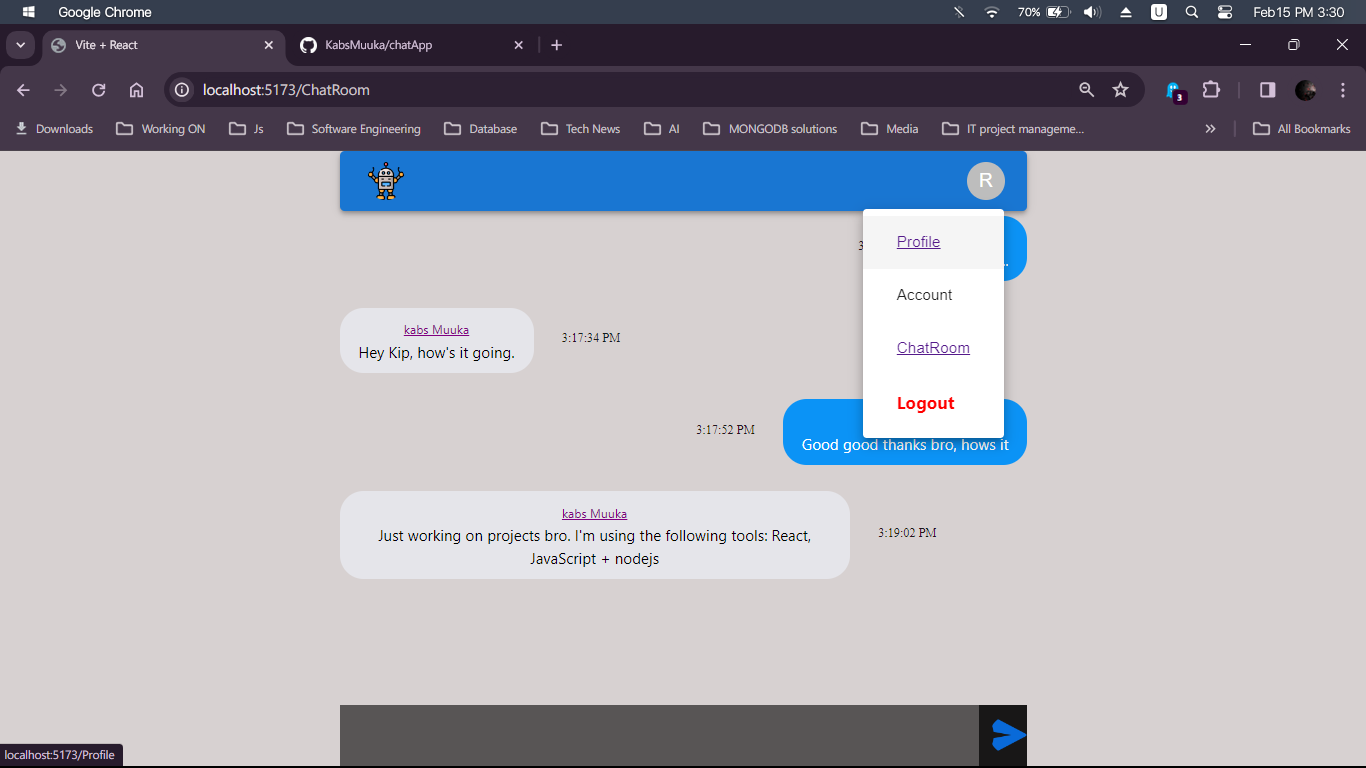
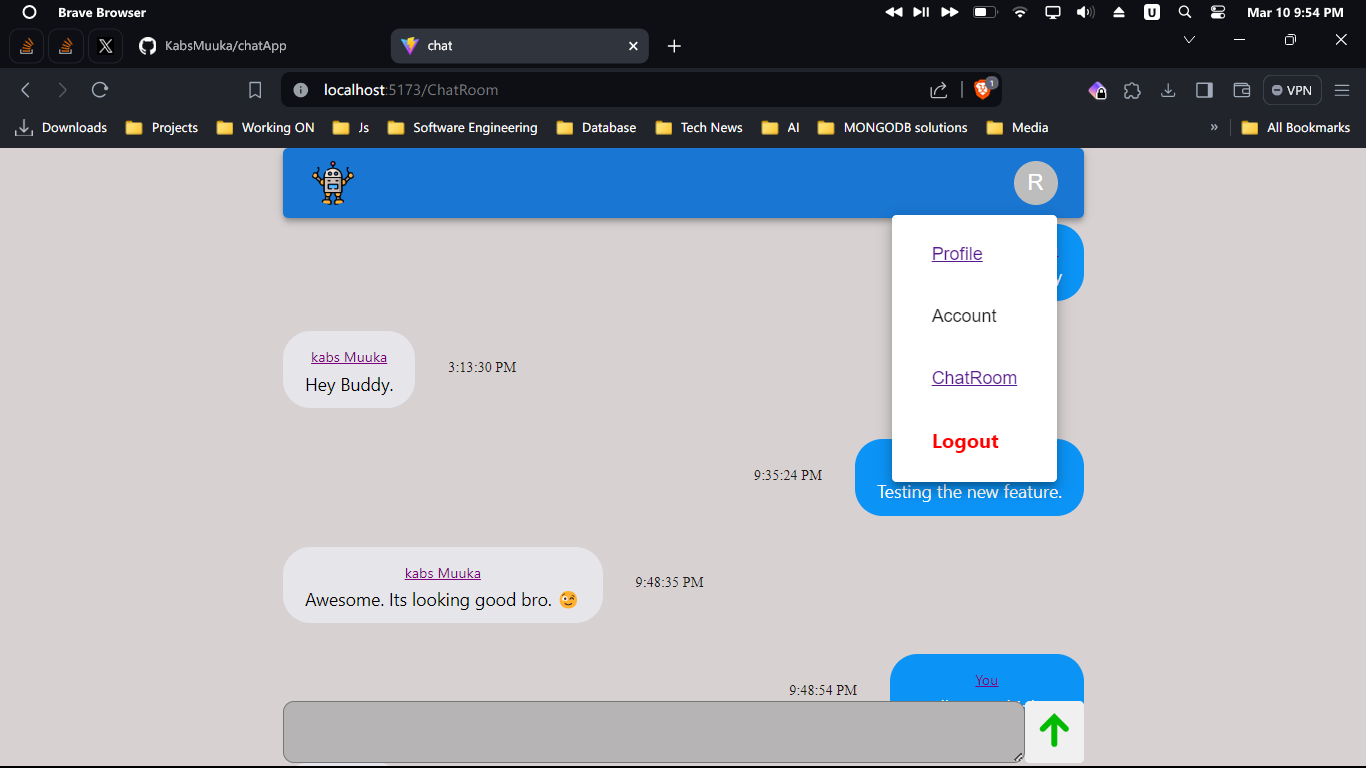
redesigned the input box (textare)

diff --git a/src/App.css b/src/App.css
@@ -91,10 +91,11 @@ main::-webkit-scrollbar-thumb {
 }
 
 .form-message-space {
+  padding-bottom: 4px;
   height: 10vh;
   position: fixed;
   bottom: 0;
-  background-color: rgb(24, 23, 23);
+  /* background-color: rgb(24, 23, 23); */
   width: 100%;
   max-width: 728px;
   display: flex;
@@ -102,28 +103,30 @@ main::-webkit-scrollbar-thumb {
 }
 
 .form-message-space button {
-  width: 7%;
   border: none;
   cursor: pointer;
   border-radius: 4px;
-  background-color: #0000;
 }
 
-input {
+textarea {
   line-height: 1.5;
   width: 100%;
   font-size: 1.2rem;
-  background: rgb(88, 85, 85);
-  color: white;
-  outline: none;
-  border: none;
+  background: rgb(182, 180, 180);
+  /* color: white; */
+  border-radius: 10px;
+  /* border: solid thin; */
   padding: 0 10px;
+  font-size: medium;
+  font-family: system-ui, -apple-system, BlinkMacSystemFont, "Segoe UI", Roboto,
+    Oxygen, Ubuntu, Cantarell, "Open Sans", "Helvetica Neue", sans-serif;
+  outline: wheat;
 }
 
 .Div-signInButton-G {
   display: flex;
   justify-content: center;
-  margin-top: 20%;
+  margin-top: 10%;
 }
 
 .signInBtn-for-G::before {
@@ -277,7 +280,7 @@ p {
   width: 40px;
   height: 40px;
   border-radius: 50%;
-  margin: 2px 5px;
+  margin: 1px;
 }
 
 .App .profile-grid-container {
@@ -328,5 +331,9 @@ p {
   }
   .Div-signInButton-G {
     margin-top: 50%;
+  }
+
+  .div-footer {
+    width: 100%;
   }
 }

diff --git a/conmponents/ChatRoom.jsx b/conmponents/ChatRoom.jsx
@@ -10,7 +10,6 @@ import {
 } from "firebase/firestore"; //database
 import { useCollectionData } from "react-firebase-hooks/firestore";
 import { useEffect, useRef, useState } from "react";
-import SidBar from "./SidBar";
 
 const firebaseConfig = {
   apiKey: "AIzaSyA9XTWy8rBAYYM-BMWTVlJYmp0ieaCliI0",
@@ -62,9 +61,6 @@ export default function ChatRoom() {
           ))}
       </span> */}
       <div className="message-container">
-        {/* /* messages.map((msg) => ...) is a method that iterates over each element in the messages array.
-             For each iteration, it executes the provided function, which returns a ChatMessage component.
-             The key={msg.id} prop is used to uniquely identify each ChatMessage */}
         {messages &&
           messages.map((msg, index) => (
             <ChatMessage key={index} message={msg} />
@@ -72,14 +68,14 @@ export default function ChatRoom() {
       </div>
 
       <form className="form-message-space" onSubmit={sendMessage}>
-        <input
+        <textarea
           type="text"
           value={userInput}
           onChange={(e) => setUserInput(e.target.value)}
         />
         <button type="submit">
           {" "}
-          <img className="micro-img" src="/send-message.png" alt="" />{" "}
+          <img className="micro-img" src="/up-arrow....png" alt="" />{" "}
         </button>
       </form>
     </>

diff --git a/index.html b/index.html
@@ -1,10 +1,10 @@
-<!doctype html>
+<!DOCTYPE html>
 <html lang="en">
   <head>
     <meta charset="UTF-8" />
     <link rel="icon" type="image/svg+xml" href="/vite.svg" />
     <meta name="viewport" content="width=device-width, initial-scale=1.0" />
-    <title>Vite + React</title>
+    <title>chat</title>
   </head>
   <body>
     <div id="root"></div>
